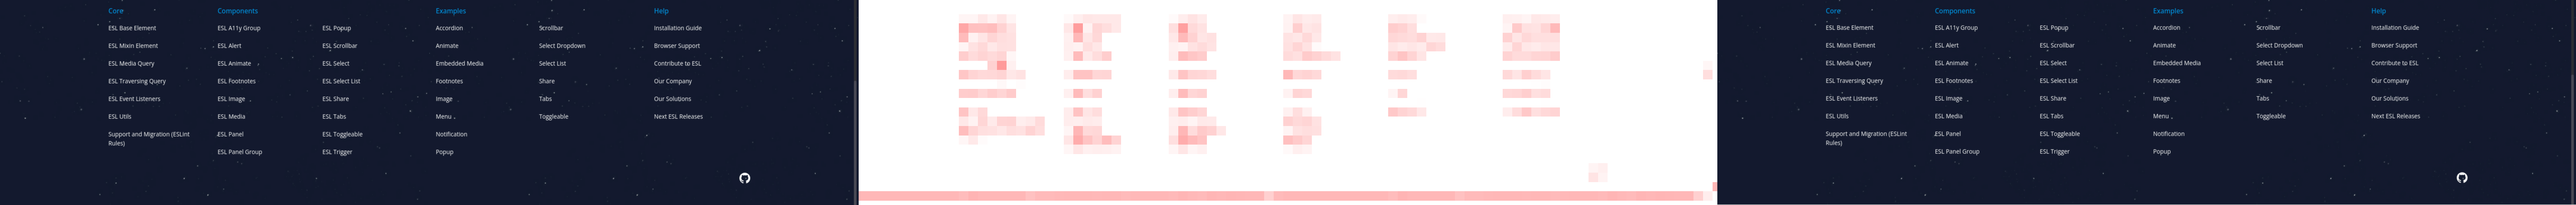
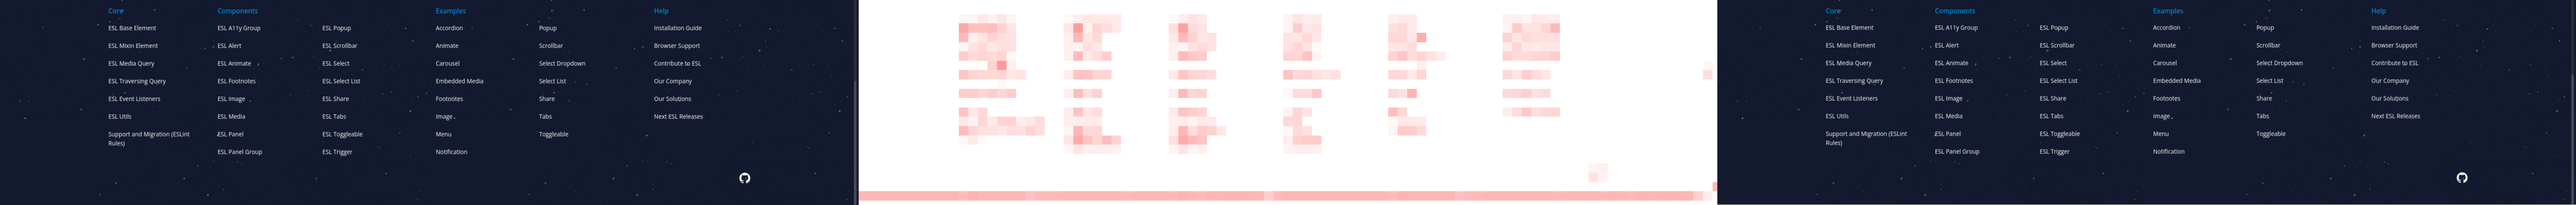
deploy: adf2979fea37323c806873ba2928183db311c860

diff --git a/index.md b/index.md
@@ -3,12 +3,12 @@
   
 | :clock10: Start time | :hourglass: Duration |
 | --- | ---: |
-|7/12/2024, 9:44:53 PM|20.04s|
+|7/12/2024, 10:54:49 PM|20.32s|
 
 | | :white_check_mark: Passed | :x: Failed | :construction: Todo | :white_circle: Total |
 | --- | ---: | ---: | ---:| ---: |
 |Test Suites|2|1|-|3|
-|Tests|6|2|0|8|
+|Tests|7|1|0|8|
 
 
 
@@ -17,24 +17,24 @@
   ### tests/homepage.copyright.test.ts
 <table>
 <tr><th>Test</th><th>Status</th><th>Time</th></tr>
-<tr><td>Homepage footer manual validation:Check if the footer copyright contains correct version</td><td>:white_check_mark:</td><td>36ms</td></tr>
-<tr><td>Homepage footer manual validation:Check if the footer coypright contains correct year</td><td>:white_check_mark:</td><td>4ms</td></tr>
+<tr><td>Homepage footer manual validation:Check if the footer copyright contains correct version</td><td>:white_check_mark:</td><td>53ms</td></tr>
+<tr><td>Homepage footer manual validation:Check if the footer coypright contains correct year</td><td>:white_check_mark:</td><td>3ms</td></tr>
 </table>
 
 ### tests/test.feature
 <table>
 <tr><th>Test</th><th>Status</th><th>Time</th></tr>
-<tr><td>Feature: Test page looks fine:test page screen</td><td>:white_check_mark:</td><td>3.537s</td></tr>
+<tr><td>Feature: Test page looks fine:test page screen</td><td>:white_check_mark:</td><td>3.627s</td></tr>
 </table>
 
 ### tests/homepage.feature
 <table>
 <tr><th>Test</th><th>Status</th><th>Time</th></tr>
-<tr><td>Feature: Homepage looks fine:test homepage screen</td><td>:white_check_mark:</td><td>3.814s</td></tr>
-<tr><td>Feature: Homepage looks fine:test homepage screen on mobile</td><td>:white_check_mark:</td><td>2.955s</td></tr>
-<tr><td>Feature: Homepage looks fine:test homepage hamburger menu on mobile</td><td>:white_check_mark:</td><td>3.466s</td></tr>
-<tr><td>Feature: Homepage looks fine:test homepage footer on desktop</td><td>:x:</td><td>2.786s</td></tr>
-<tr><td colspan="3"><img src="https://github.com/exadel-inc/esl/blob/diff-report/homepage-feature-feature-homepage-looks-fine-test-homepage-footer-on-desktop-1-snap-diff.png?raw=true" alt="Test Diff homepage-feature-feature-homepage-looks-fine-test-homepage-footer-on-desktop-1-snap-diff.png"/></td></tr><tr><td>Feature: Homepage looks fine:test homepage footer on mobile</td><td>:x:</td><td>2.375s</td></tr>
-<tr><td colspan="3"><img src="https://github.com/exadel-inc/esl/blob/diff-report/homepage-feature-feature-homepage-looks-fine-test-homepage-footer-on-mobile-1-snap-diff.png?raw=true" alt="Test Diff homepage-feature-feature-homepage-looks-fine-test-homepage-footer-on-mobile-1-snap-diff.png"/></td></tr></table>
+<tr><td>Feature: Homepage looks fine:test homepage screen</td><td>:white_check_mark:</td><td>3.903s</td></tr>
+<tr><td>Feature: Homepage looks fine:test homepage screen on mobile</td><td>:white_check_mark:</td><td>2.99s</td></tr>
+<tr><td>Feature: Homepage looks fine:test homepage hamburger menu on mobile</td><td>:white_check_mark:</td><td>3.496s</td></tr>
+<tr><td>Feature: Homepage looks fine:test homepage footer on desktop</td><td>:x:</td><td>2.803s</td></tr>
+<tr><td colspan="3"><img src="https://github.com/exadel-inc/esl/blob/diff-report/homepage-feature-feature-homepage-looks-fine-test-homepage-footer-on-desktop-1-snap-diff.png?raw=true" alt="Test Diff homepage-feature-feature-homepage-looks-fine-test-homepage-footer-on-desktop-1-snap-diff.png"/></td></tr><tr><td>Feature: Homepage looks fine:test homepage footer on mobile</td><td>:white_check_mark:</td><td>2.344s</td></tr>
+</table>
 
 

diff --git a/README.md b/README.md
@@ -3,12 +3,12 @@
   
 | :clock10: Start time | :hourglass: Duration |
 | --- | ---: |
-|7/12/2024, 9:44:53 PM|20.04s|
+|7/12/2024, 10:54:49 PM|20.32s|
 
 | | :white_check_mark: Passed | :x: Failed | :construction: Todo | :white_circle: Total |
 | --- | ---: | ---: | ---:| ---: |
 |Test Suites|2|1|-|3|
-|Tests|6|2|0|8|
+|Tests|7|1|0|8|
 
 
 
@@ -17,24 +17,24 @@
   ### tests/homepage.copyright.test.ts
 <table>
 <tr><th>Test</th><th>Status</th><th>Time</th></tr>
-<tr><td>Homepage footer manual validation:Check if the footer copyright contains correct version</td><td>:white_check_mark:</td><td>36ms</td></tr>
-<tr><td>Homepage footer manual validation:Check if the footer coypright contains correct year</td><td>:white_check_mark:</td><td>4ms</td></tr>
+<tr><td>Homepage footer manual validation:Check if the footer copyright contains correct version</td><td>:white_check_mark:</td><td>53ms</td></tr>
+<tr><td>Homepage footer manual validation:Check if the footer coypright contains correct year</td><td>:white_check_mark:</td><td>3ms</td></tr>
 </table>
 
 ### tests/test.feature
 <table>
 <tr><th>Test</th><th>Status</th><th>Time</th></tr>
-<tr><td>Feature: Test page looks fine:test page screen</td><td>:white_check_mark:</td><td>3.537s</td></tr>
+<tr><td>Feature: Test page looks fine:test page screen</td><td>:white_check_mark:</td><td>3.627s</td></tr>
 </table>
 
 ### tests/homepage.feature
 <table>
 <tr><th>Test</th><th>Status</th><th>Time</th></tr>
-<tr><td>Feature: Homepage looks fine:test homepage screen</td><td>:white_check_mark:</td><td>3.814s</td></tr>
-<tr><td>Feature: Homepage looks fine:test homepage screen on mobile</td><td>:white_check_mark:</td><td>2.955s</td></tr>
-<tr><td>Feature: Homepage looks fine:test homepage hamburger menu on mobile</td><td>:white_check_mark:</td><td>3.466s</td></tr>
-<tr><td>Feature: Homepage looks fine:test homepage footer on desktop</td><td>:x:</td><td>2.786s</td></tr>
-<tr><td colspan="3"><img src="homepage-feature-feature-homepage-looks-fine-test-homepage-footer-on-desktop-1-snap-diff.png" alt="Test Diff homepage-feature-feature-homepage-looks-fine-test-homepage-footer-on-desktop-1-snap-diff.png"/></td></tr><tr><td>Feature: Homepage looks fine:test homepage footer on mobile</td><td>:x:</td><td>2.375s</td></tr>
-<tr><td colspan="3"><img src="homepage-feature-feature-homepage-looks-fine-test-homepage-footer-on-mobile-1-snap-diff.png" alt="Test Diff homepage-feature-feature-homepage-looks-fine-test-homepage-footer-on-mobile-1-snap-diff.png"/></td></tr></table>
+<tr><td>Feature: Homepage looks fine:test homepage screen</td><td>:white_check_mark:</td><td>3.903s</td></tr>
+<tr><td>Feature: Homepage looks fine:test homepage screen on mobile</td><td>:white_check_mark:</td><td>2.99s</td></tr>
+<tr><td>Feature: Homepage looks fine:test homepage hamburger menu on mobile</td><td>:white_check_mark:</td><td>3.496s</td></tr>
+<tr><td>Feature: Homepage looks fine:test homepage footer on desktop</td><td>:x:</td><td>2.803s</td></tr>
+<tr><td colspan="3"><img src="homepage-feature-feature-homepage-looks-fine-test-homepage-footer-on-desktop-1-snap-diff.png" alt="Test Diff homepage-feature-feature-homepage-looks-fine-test-homepage-footer-on-desktop-1-snap-diff.png"/></td></tr><tr><td>Feature: Homepage looks fine:test homepage footer on mobile</td><td>:white_check_mark:</td><td>2.344s</td></tr>
+</table>
 
 
